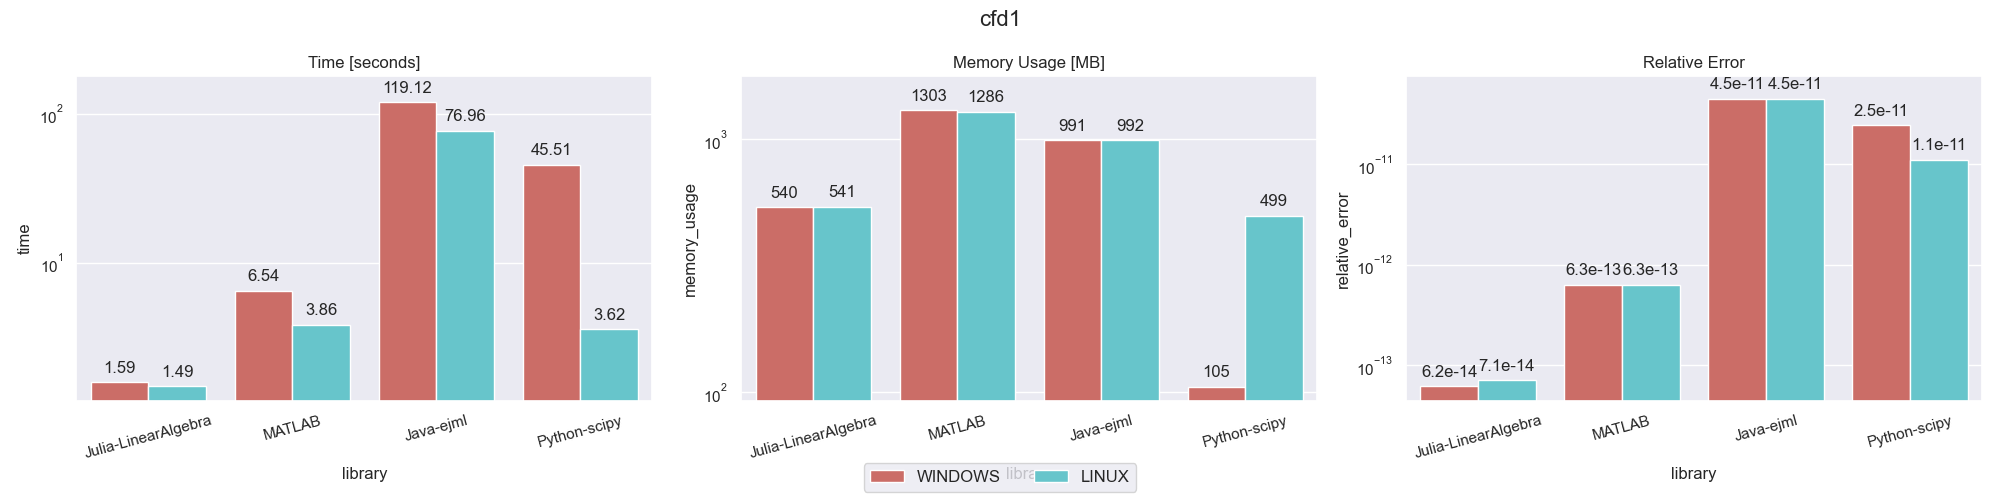
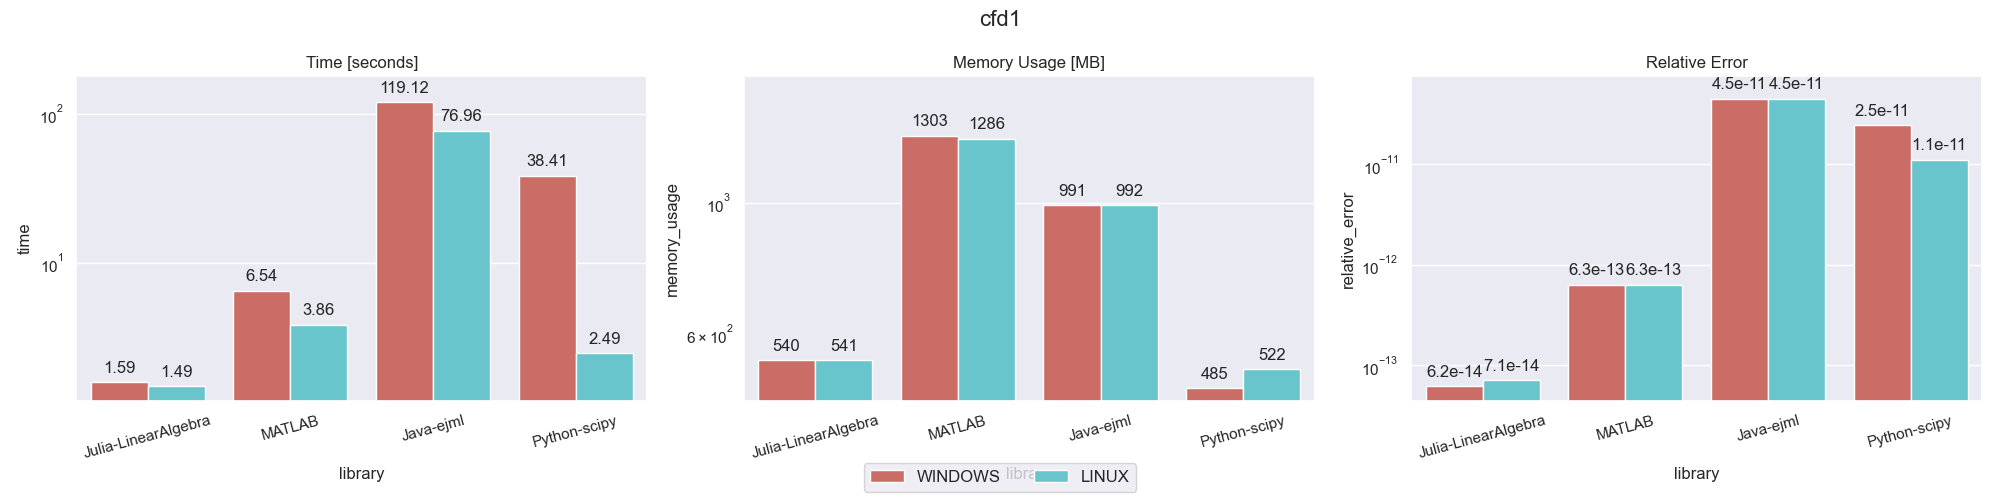
Update results data, remove old imgs folder

diff --git a/report/report.tex b/report/report.tex
@@ -126,7 +126,7 @@ questo documento rimane una problematica non risolta.
 \end{itemize}
 
 \subsection{Python}
-La libreria SciPy è stata utilizzata per per le matrici sparese insieme a
+La libreria SciPy è stata utilizzata per per le matrici sparse insieme a
 scikit-sparse per la fattorizzazione di Cholesky.
 SciPy offre inoltre le funzionalità per la lettura dei file \texttt{.mat}.
 La fattorizzazione di Cholesky è implementata dal modulo sksparse.cholmod,
@@ -402,7 +402,7 @@ apache2.mat         & 715176 & 4817870 & 646.19 & 27490.58
 & 3.65750E-11 & WINDOWS & 9.13.0.2193358 (R2022b) Update 5 \\ \bottomrule
 \end{tabular}%
 }
-\caption{Risultati dei benchmark MATLAB}
+\caption{Risultati dei benchmark MATLAB.}
 \label{tab:result_matlab}
 \end{table}
 \subsubsection{Java}
@@ -446,7 +446,7 @@ cfd2.mat            & 123440 & 3085406 & 121.14 & 1928.13
 & 2.19321E-11 & WINDOWS & 0.43 \\ \bottomrule
 \end{tabular}%
 }
-\caption{Risultati dei benchmark Java}
+\caption{Risultati dei benchmark Java.}
 \label{tab:result_java}
 \end{table}
 \subsubsection{Python}
@@ -466,55 +466,55 @@ fattorizzazione il processo lanciava diversi thread come se stesse effettuando
 una parallelizzazione fino ad arrivare a saturare tutti e 16 i core a
 disposizione, questo però non è stato osservato in ambiente Windows.
 \begin{table}[ht]
-\centering
-\resizebox{\columnwidth}{!}{%
-\begin{tabular}{@{}lrrrrrcc@{}}
-\toprule
-\textbf{A} &
-\textbf{size} &
-\textbf{NNZ} &
-\textbf{time {[}s{]}} &
-\textbf{memory\_usage {[}MB{]}} &
-\textbf{relative\_error} &
-\textbf{platform} &
-\textbf{library\_version} \\ \midrule
-ex15.mat            & 6867    & 98671     & 0.94   & 726.99
-& 3.49945E-07 & LINUX   & 1.8.1  \\
-ex15.mat            & 6867    & 98671     & 0.02   & 78.57
-& 3.97177E-07 & WINDOWS & 1.10.1 \\
-shallow\_water1.mat & 81920   & 327680    & 4.00   & 726.99
-& 3.27712E-16 & LINUX   & 1.8.1  \\
-shallow\_water1.mat & 81920   & 327680    & 0.69   & 84.01
-& 3.75545E-16 & WINDOWS & 1.10.1 \\
-cfd1.mat            & 70656   & 1825580   & 3.62   & 499.01
-& 1.11282E-11 & LINUX   & 1.8.1  \\
-cfd1.mat            & 70656   & 1825580   & 45.51  & 105.17
-& 2.47670E-11 & WINDOWS & 1.10.1 \\
-cfd2.mat            & 123440  & 3085406   & 8.65   & 499.15
-& 1.65638E-11 & LINUX   & 1.8.1  \\
-cfd2.mat            & 123440  & 3085406   & 130.17 & 121.55
-& 3.41646E-11 & WINDOWS & 1.10.1 \\
-parabolic\_fem.mat  & 525825  & 3674625   & 19.52  & 726.99
-& 1.91515E-11 & LINUX   & 1.8.1  \\
-parabolic\_fem.mat  & 525825  & 3674625   & 22.07  & 144.30
-& 2.35390E-11 & WINDOWS & 1.10.1 \\
-apache2.mat         & 715176  & 4817870   & 82.83  & 551.96
-& 1.70028E-10 & LINUX   & 1.8.1  \\
-apache2.mat         & 715176  & 4817870   & 270.27 & 171.90
-& 2.24076E-10 & WINDOWS & 1.10.1 \\
-G3\_circuit.mat     & 1585478 & 7660826   & 87.47  & 785.36
-& 3.34037E-11 & LINUX   & 1.8.1  \\
-G3\_circuit.mat     & 1585478 & 7660826   & 328.09 & 244.55
-& 5.82245E-11 & WINDOWS & 1.10.1 \\
-StocF-1465.mat      & 1465137 & 21005389  & 376.75 & 739.66
-& 1.89743E-08 & LINUX   & 1.8.1  \\
-Flan\_1565.mat      & 1564794 & 114165372 & 447.43 & 1893.95
-& 5.33502E-10 & LINUX   & 1.8.1  \\ \bottomrule
-\end{tabular}%
-}
-\caption{Risultati dei benchmark Python}
-\label{tab:result_python}
-\end{table}
+  \centering
+  \resizebox{\columnwidth}{!}{%
+  \begin{tabular}{@{}lrrrrrcc@{}}
+  \hline
+  \textbf{A} &
+    \textbf{size} &
+    \textbf{NNZ} &
+    \textbf{time {[}s{]}} &
+    \textbf{memory\_usage {[}MB{]}} &
+    \textbf{relative\_error} &
+    \multicolumn{1}{c}{\textbf{platform}} &
+    \multicolumn{1}{c}{\textbf{library\_version}} \\ \hline
+  ex15.mat            & 6867    & 98671     & 0.27   & 500.00
+  & 3.49945E-07 & LINUX   & 1.8.1  \\
+  ex15.mat            & 6867    & 98671     & 0.04   & 87.00
+  & 3.97177E-07 & WINDOWS & 1.10.1 \\
+  shallow\_water1.mat & 81920   & 327680    & 10.18  & 501.00
+  & 3.27712E-16 & LINUX   & 1.8.1  \\
+  shallow\_water1.mat & 81920   & 327680    & 0.74   & 130.00
+  & 3.75545E-16 & WINDOWS & 1.10.1 \\
+  cfd1.mat            & 70656   & 1825580   & 2.93   & 686.00
+  & 1.11282E-11 & LINUX   & 1.8.1  \\
+  cfd1.mat            & 70656   & 1825580   & 38.41  & 485.00
+  & 2.47670E-11 & WINDOWS & 1.10.1 \\
+  cfd2.mat            & 123440  & 3085406   & 14.71  & 853.00
+  & 1.65638E-11 & LINUX   & 1.8.1  \\
+  cfd2.mat            & 123440  & 3085406   & 123.30 & 865.00
+  & 3.41646E-11 & WINDOWS & 1.10.1 \\
+  parabolic\_fem.mat  & 525825  & 3674625   & 23.58  & 975.00
+  & 1.91515E-11 & LINUX   & 1.8.1  \\
+  parabolic\_fem.mat  & 525825  & 3674625   & 18.54  & 582.00
+  & 2.35390E-11 & WINDOWS & 1.10.1 \\
+  apache2.mat         & 715176  & 4817870   & 65.47  & 1889.00
+  & 1.70028E-10 & LINUX   & 1.8.1  \\
+  apache2.mat         & 715176  & 4817870   & 262.48 & 1989.00
+  & 2.24076E-10 & WINDOWS & 1.10.1 \\
+  G3\_circuit.mat     & 1585478 & 7660826   & 94.44  & 1706.00
+  & 3.34037E-11 & LINUX   & 1.8.1  \\
+  G3\_circuit.mat     & 1585478 & 7660826   & 338.93 & 2357.00
+  & 5.82245E-11 & WINDOWS & 1.10.1 \\
+  StocF-1465.mat      & 1465137 & 21005389  & 357.17 & 10633.00
+  & 1.89743E-08 & LINUX   & 1.8.1  \\
+  Flan\_1565.mat      & 1564794 & 114165372 & 505.37 & 15889.00
+  & 5.33502E-10 & LINUX   & 1.8.1  \\ \hline
+  \end{tabular}%
+  }
+  \caption{Risultati dei benchmark Python.}
+  \label{tab:result_python}
+  \end{table}
 
 \subsubsection{Julia}
 La Tabella~\ref{tab:result_julia} riporta i risultati ottenuti utilizzando Julia.
@@ -569,7 +569,7 @@ Flan\_1565.mat      & 1564794 & 114165372 & 538.93 & 43646.98
 & 1.67777E-12 & WINDOWS & 1.9.0 \\ \bottomrule
 \end{tabular}%
 }
-\caption{Risultati dei benchmark Julia}
+\caption{Risultati dei benchmark Julia.}
 \label{tab:result_julia}
 \end{table}
 
